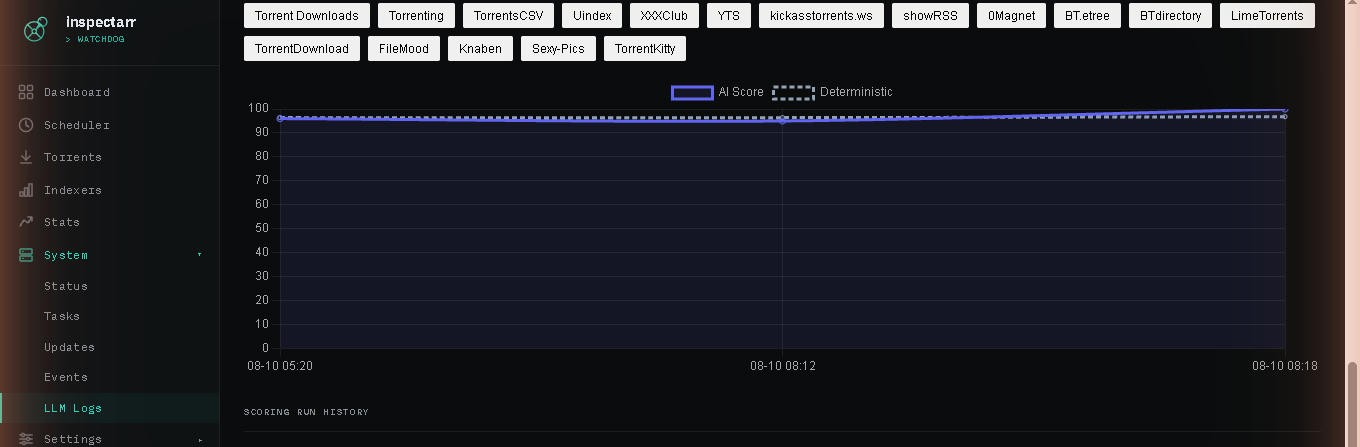
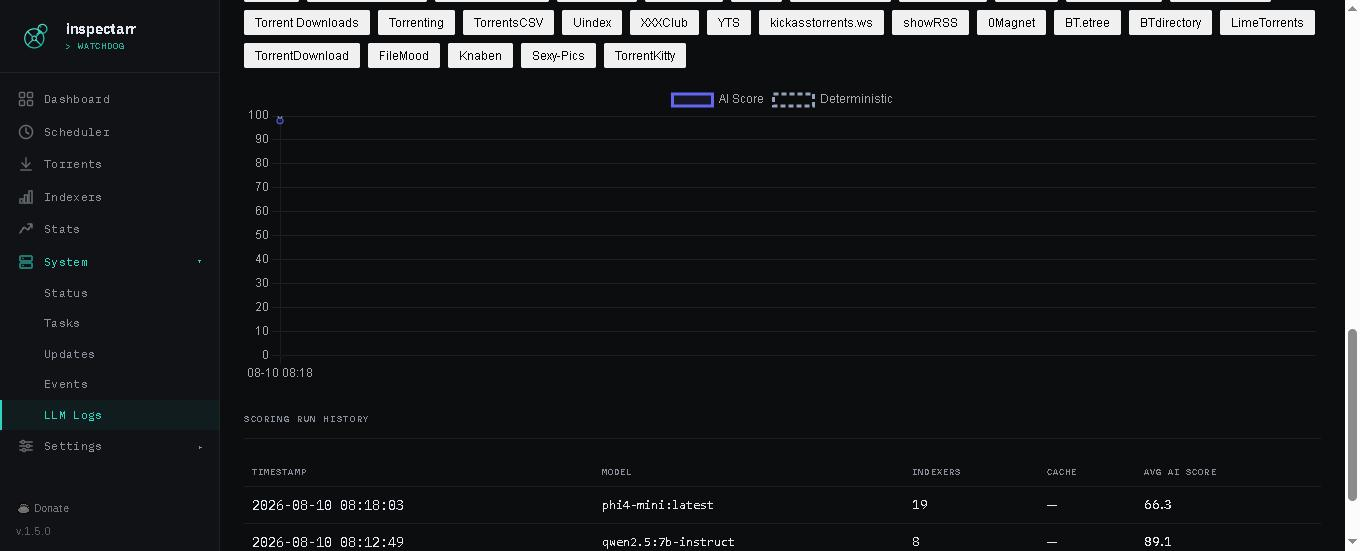
docs: add wiki screenshots for dashboard, indexers, scheduler, settings

diff --git a/wiki-update/Web-UI.md b/wiki-update/Web-UI.md
@@ -6,6 +6,8 @@ Inspectarr ships a web UI on port 8585 (configurable via `web.port`). All pages 
 
 The landing page. Shows a quick summary of recent scan activity, matched torrents, and current scheduler state.
 
+![Dashboard](images/dashboard.jpg)
+
 ### Torrents
 
 Lists all torrents currently tracked in qBittorrent categories that match your rules. Click a torrent to see file-level detail, including which files triggered a match and why.
@@ -19,9 +21,13 @@ Controls the scan scheduler. From here you can:
 - View webhook URLs (when `scanning.webhooks.enabled` is `true`) — copy these into your *arr apps under Connect → Webhook
 - Trigger a manual scan
 
+![Scheduler](images/scheduler.jpg)
+
 ### Indexers
 
 Prowlarr indexer health scoring dashboard. See [Prowlarr Indexer Scoring](Prowlarr-Indexer-Scoring) for full details. Only visible when `prowlarr.enabled` is `true`. Actions: Rescore, Reorder & Sync, Ignore toggle, Reset stats, Enable/Disable.
+
+![Indexer Health](images/indexers.jpg)
 
 ### Logs
 

diff --git a/README.md b/README.md
@@ -118,6 +118,16 @@ Dark and light themes with toggle. Works on desktop and mobile.
 Settings are saved to `config.yaml` and take effect on the next scan cycle — no restart needed.
 
 <p align="center">
+  <img src="assets/screenshots/dashboard.jpg" alt="Dashboard" width="900">
+  <br><em>Dashboard — scheduler status, scan stats, run history</em>
+</p>
+
+<p align="center">
+  <img src="assets/screenshots/indexers.jpg" alt="Indexer Health" width="900">
+  <br><em>Indexer Health — scores, response times, actions</em>
+</p>
+
+<p align="center">
   <img src="assets/screenshots/llm-logs-reasoning.jpg" alt="LLM Logs — AI scoring report card with reasoning" width="900">
   <br><em>LLM Logs — AI scoring report card with per-indexer reasoning</em>
 </p>

diff --git a/wiki-update/Prowlarr-Indexer-Scoring.md b/wiki-update/Prowlarr-Indexer-Scoring.md
@@ -46,6 +46,8 @@ Not all failures are equal. Auth failures are weighted 6× more heavily than RSS
 
 Inspectarr records each indexer's health score over time. The trend value (positive = improving, negative = declining) is added directly to the raw score before clamping. This means an indexer on a downward trend gets penalized even if its current metrics look okay, and a recovering indexer gets a small boost.
 
+![Indexer Health page](images/indexers.jpg)
+
 ## AI scoring (Ollama)
 
 When an Ollama endpoint and model are configured under `prowlarr.ollama`, Inspectarr sends all indexer data in a single batch to the LLM, which returns its own health scores and reasoning. The AI scores replace the deterministic ones.

diff --git a/wiki-update/Configuration.md b/wiki-update/Configuration.md
@@ -224,6 +224,8 @@ When configured, Ollama analyzes indexer data and produces an AI-powered health 
 
 AI scoring runs are logged to the database and visible on the [LLM Logs](LLM-Logs) page under System. The model can also be changed from the Settings → Indexers pane in the web UI.
 
+![Settings — AI Model selector and auto-manage](images/settings-model-selector.jpg)
+
 ### Auto-manage
 
 Automatically disables indexers that consistently score below a threshold and re-enables them after a cooldown. Auto-manage runs after every scan cycle independently of the reorder interval.
